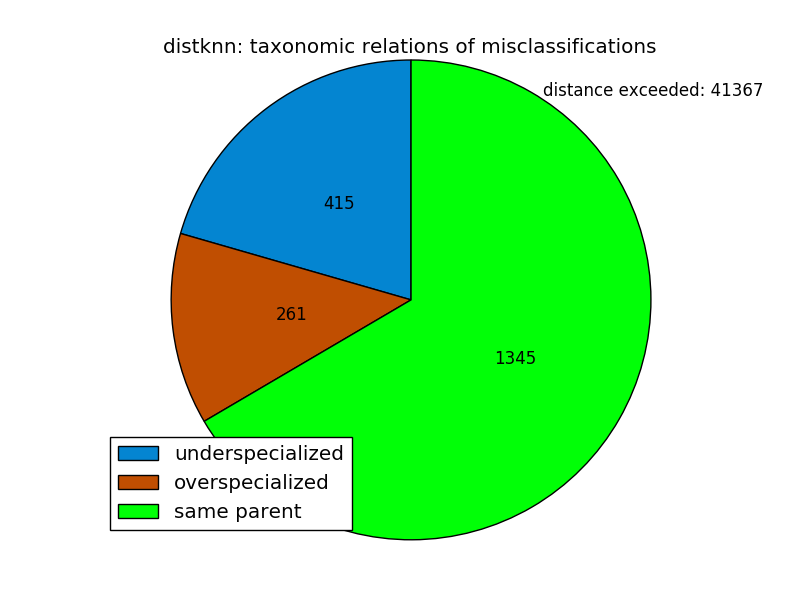
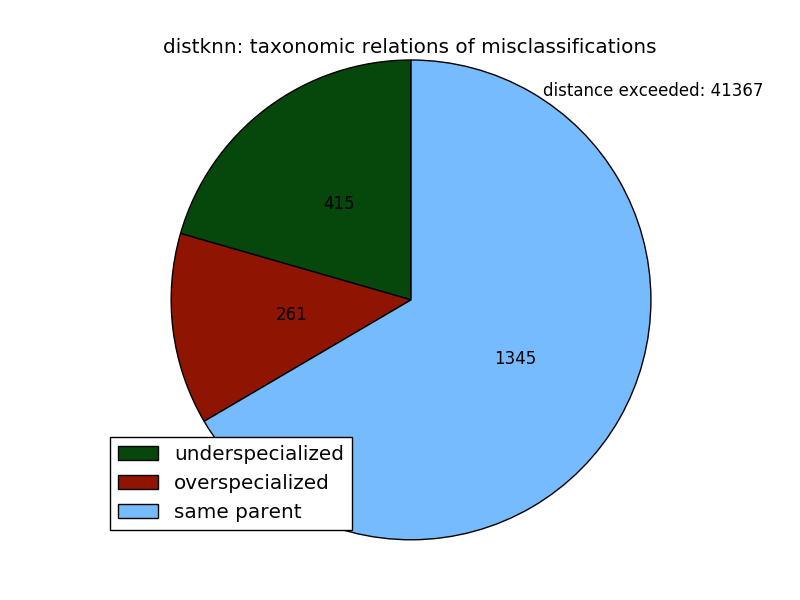
Changed pie colors.

diff --git a/scripts/plot_prediction_gold_taxonomic_relations.py b/scripts/plot_prediction_gold_taxonomic_relations.py
@@ -35,11 +35,10 @@ def main():
             logging.log(level=logging.INFO, msg='loaded {}'.format(algorithm))
 
     labels = ['underspecialized', 'overspecialized', 'same parent']
-    exploded = [1, 1, 1, 0]
     colors = [
-        '#0485d1',  # cerulean
-        '#c04e01',  # burnt orange
-        '#01ff07',  # bright green
+        '#06470c',  # forest green
+        '#8f1402',  # brick red
+        '#75bbfd',  # sky blue
     ]
     for algorithm in algorithms:
         plt.figure(1)
